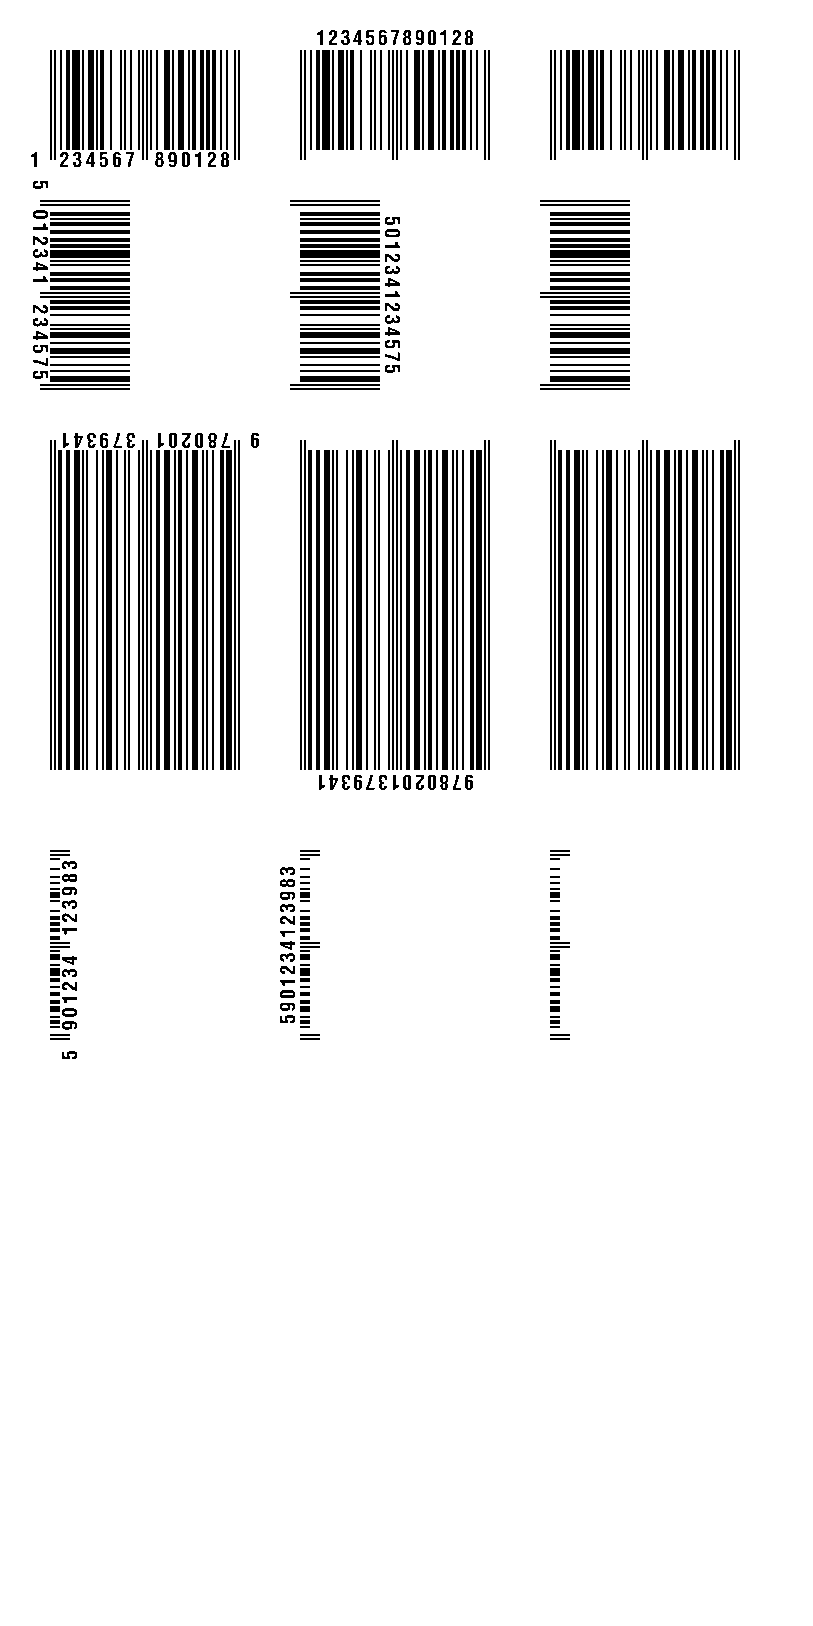
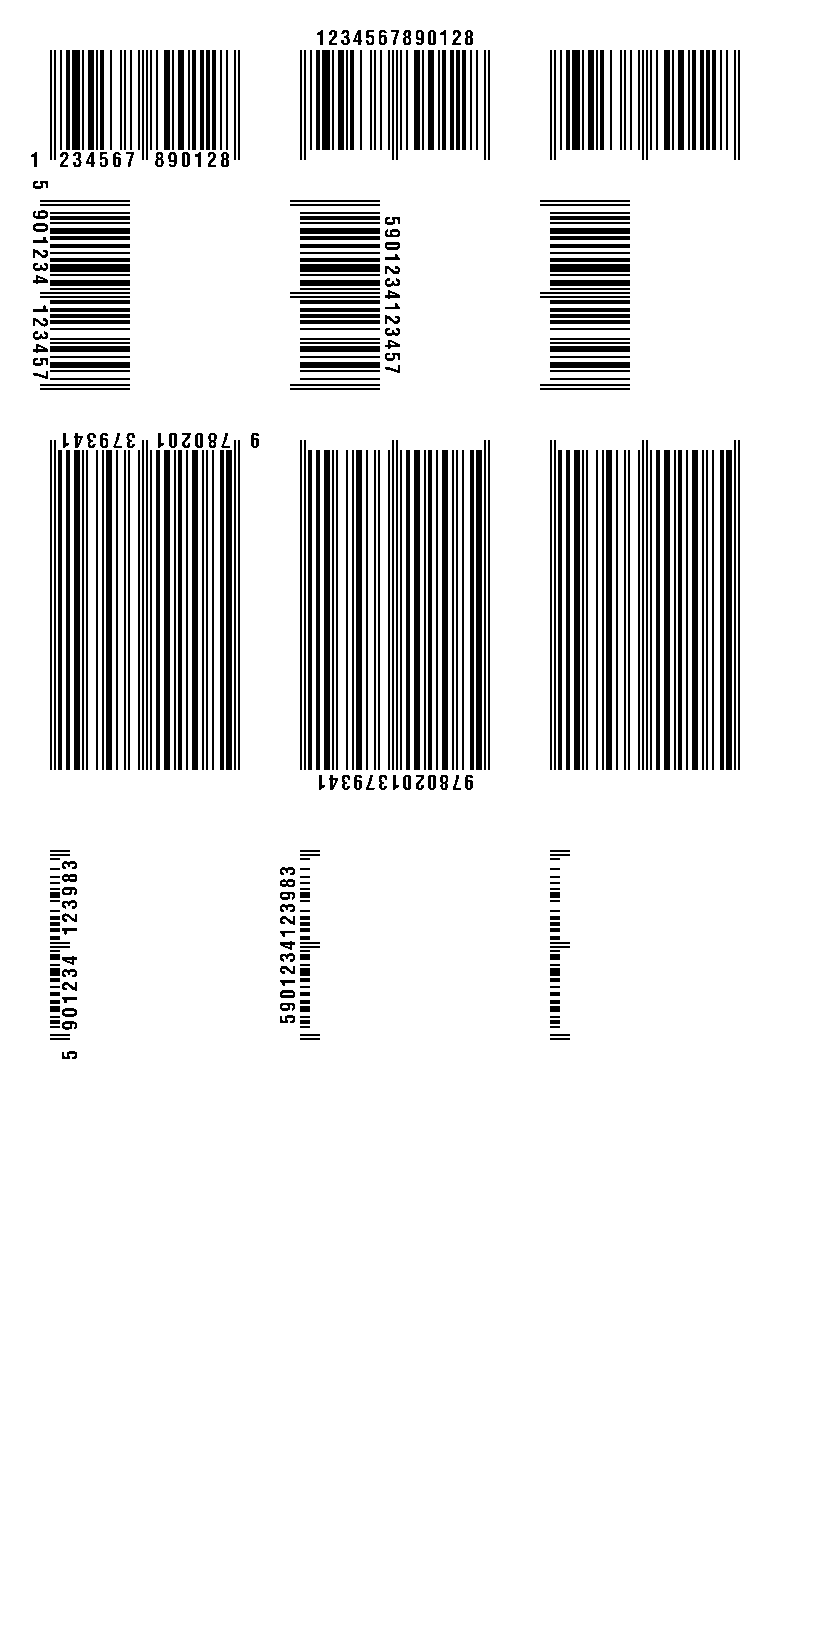
Fix sanitization logic for ean-13 content

Changed region(s): [[0.369, 0.123, 0.492, 0.246], [0.0308, 0.123, 0.1538, 0.246], [0.6765, 0.123, 0.7688, 0.246]]

diff --git a/internal/barcodes/ean13/encoder_test.go b/internal/barcodes/ean13/encoder_test.go
@@ -23,6 +23,16 @@ func TestSanitizeContent(t *testing.T) {
 			result:  "0000000001236",
 		},
 		{
+			name:    "exactly 13 digits with valid check digit",
+			content: "5901234123457",
+			result:  "5901234123457",
+		},
+		{
+			name:    "exactly 13 digits with invalid check digit",
+			content: "5901234123456",
+			result:  "5901234123457",
+		},
+		{
 			name:    "exactly 12 digits",
 			content: "123456789012",
 			result:  "1234567890128",

diff --git a/internal/barcodes/ean13/encoder.go b/internal/barcodes/ean13/encoder.go
@@ -106,11 +106,14 @@ func sanitizeContent(content string) string {
 	}, content)
 
 	content = fmt.Sprintf("%012s", content)
-
-	if len(content) > 12 {
+	if len(content) > 13 {
 		content = content[0:1] + content[len(content)-11:]
 	}
 
+	return withCheckDigit(content[0:12])
+}
+
+func withCheckDigit(content string) string {
 	return content + string(calcCheckNum(content))
 }
 
